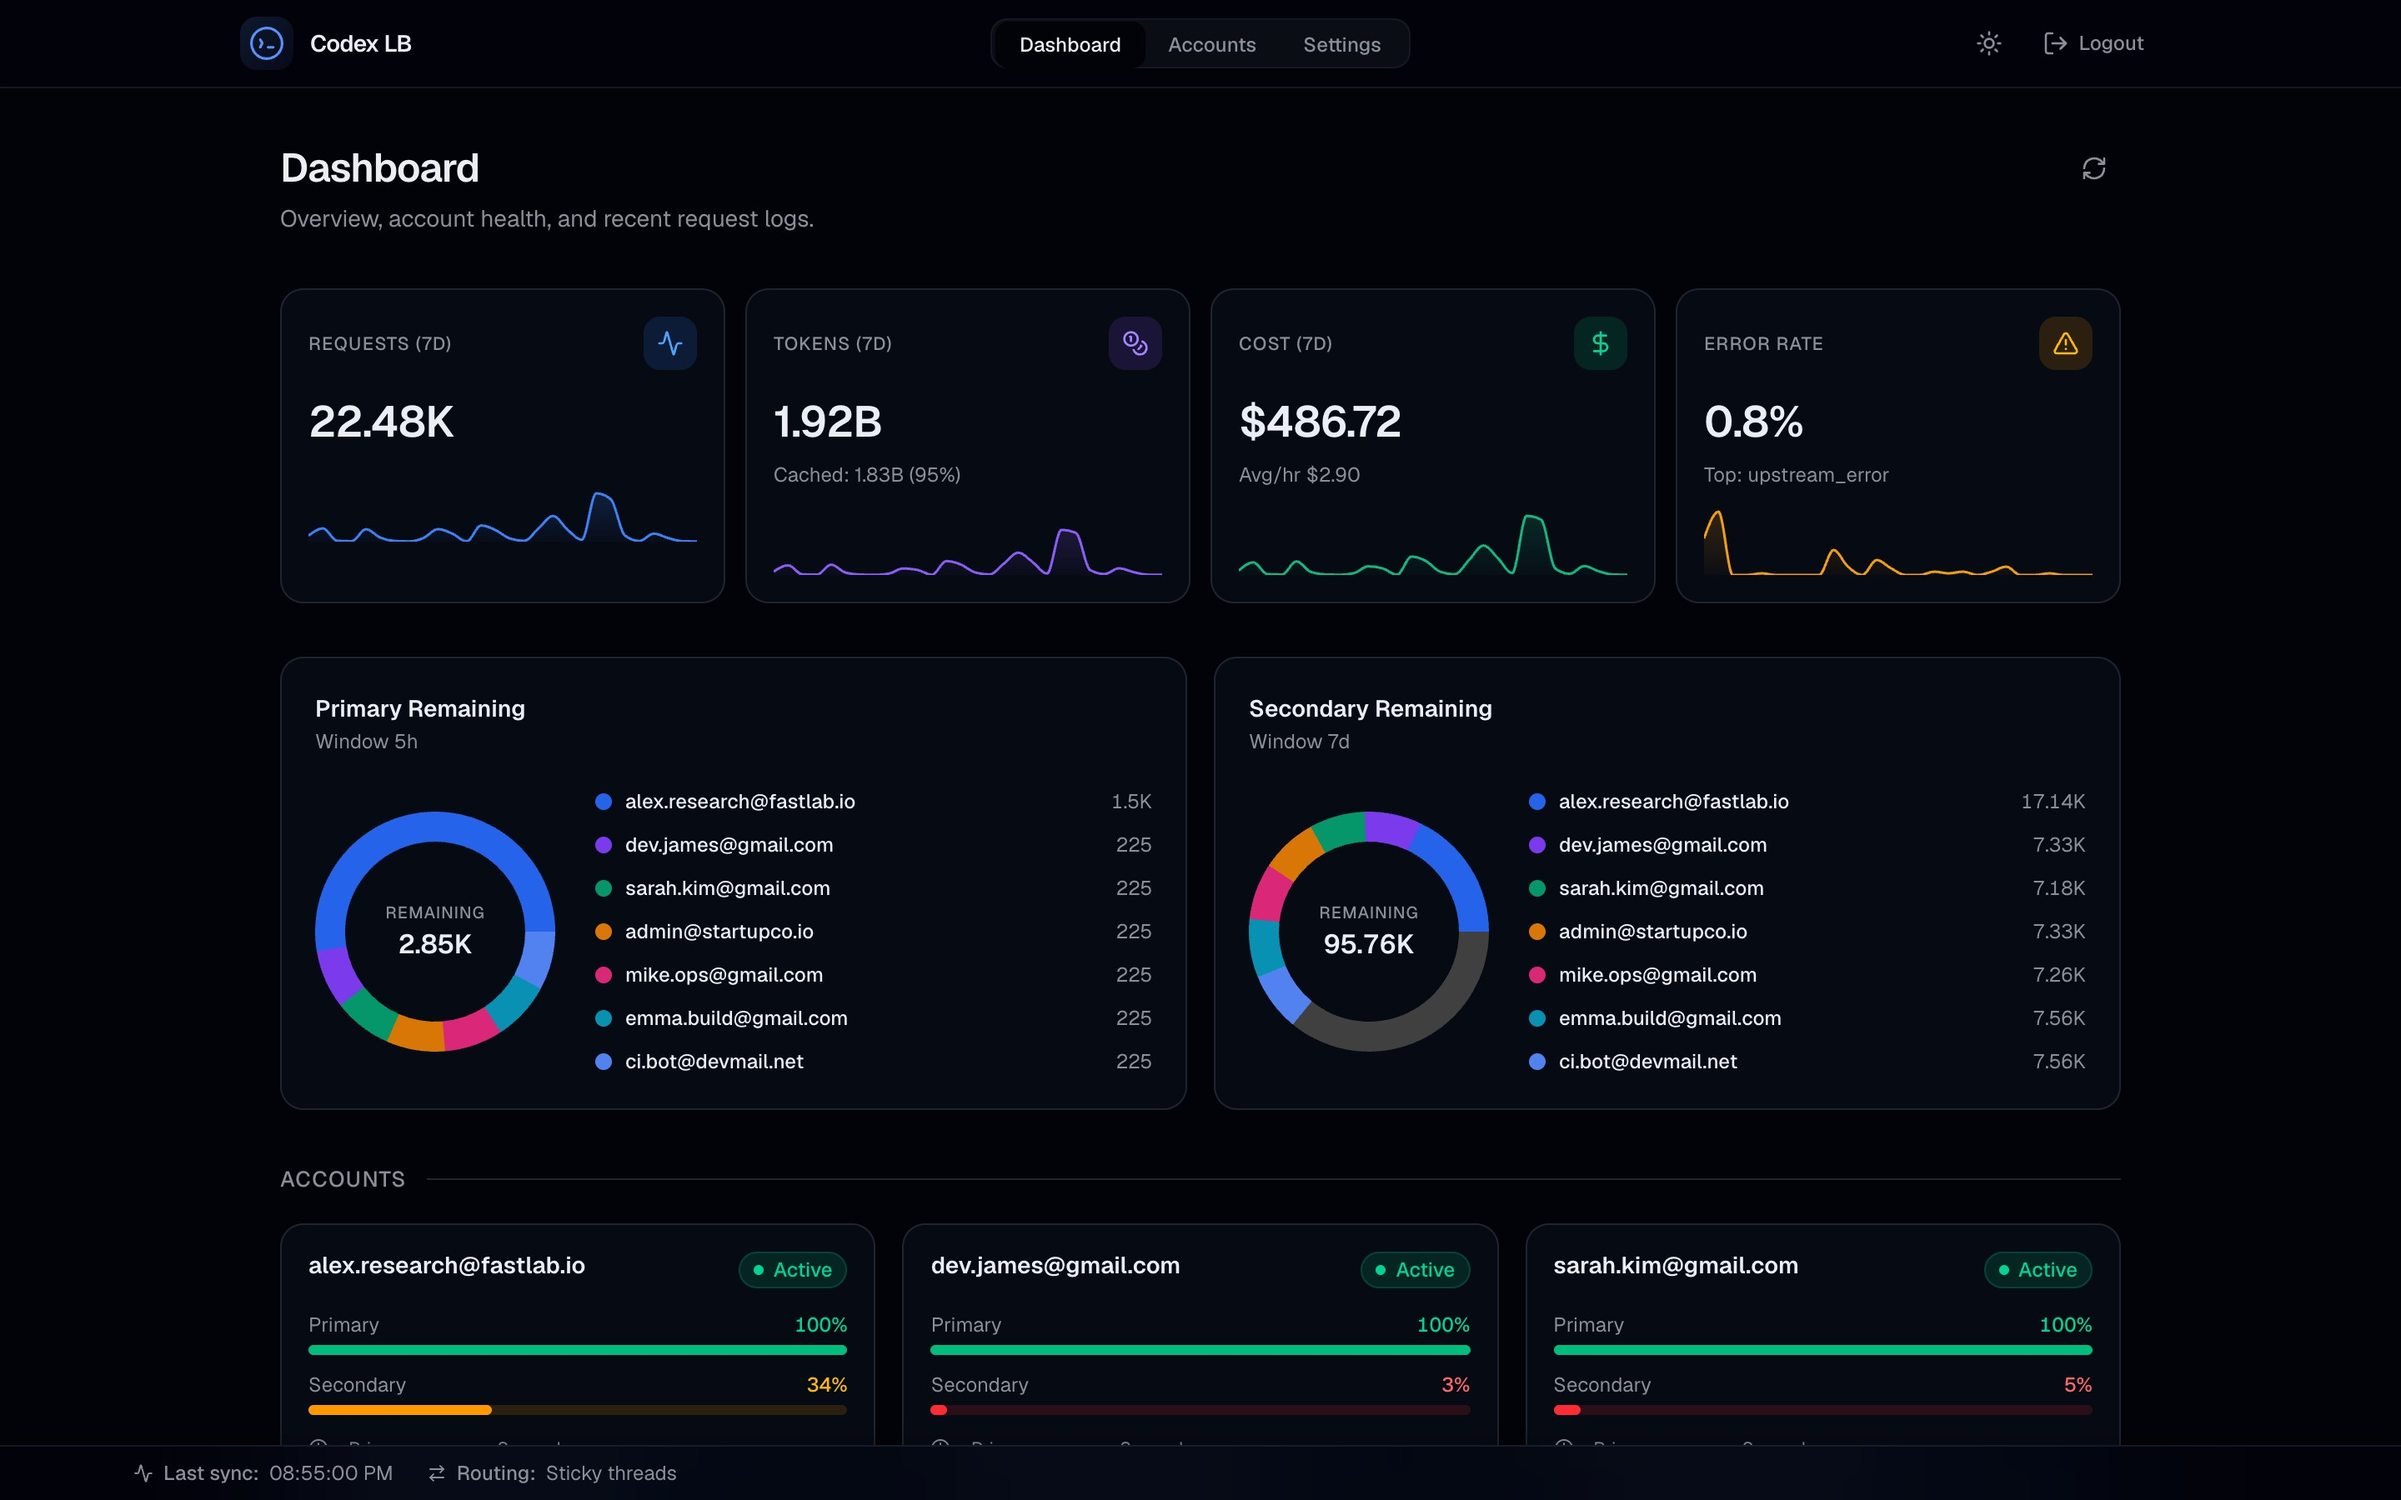
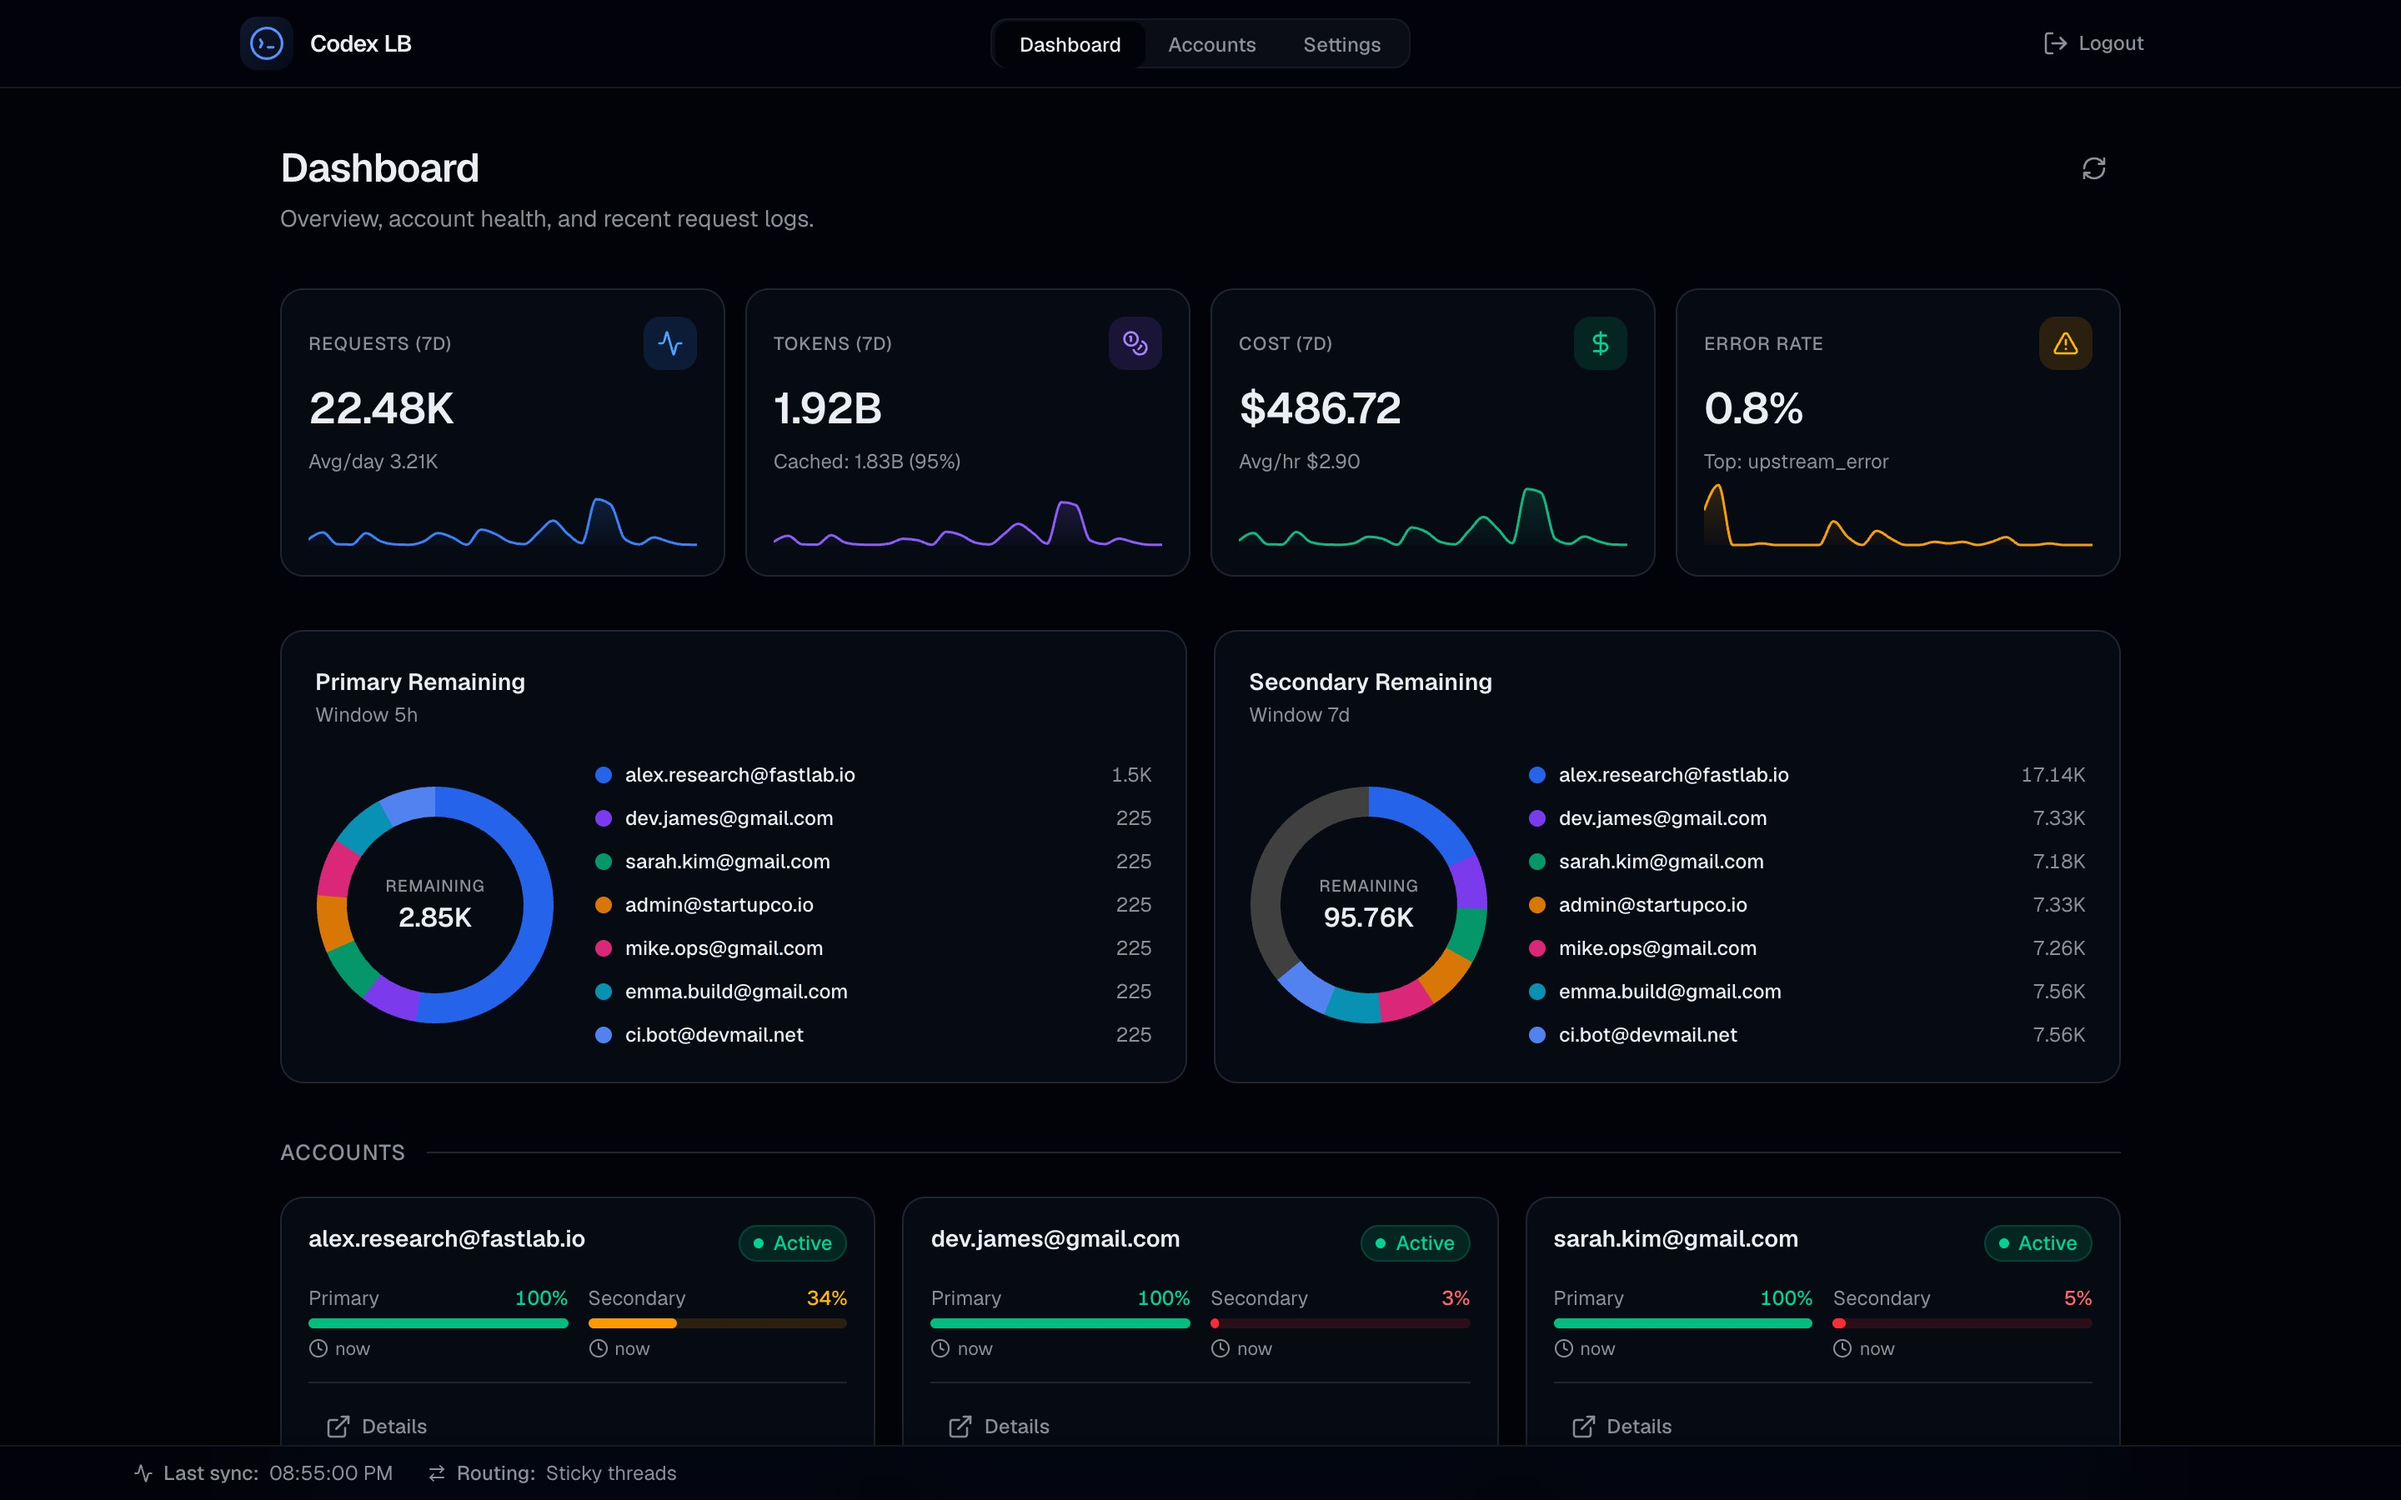
chore(screenshots): update screenshots and add account trends fixtures
Refresh dashboard, accounts, and settings screenshots. Add account trends
mock data to screenshot capture fixtures for the new trend chart feature.

diff --git a/frontend/screenshots/fixtures.ts b/frontend/screenshots/fixtures.ts
@@ -1,5 +1,6 @@
 import {
   createAccountSummary,
+  createAccountTrends,
   createApiKey,
   createDashboardAuthSession,
   createDashboardOverview,
@@ -8,6 +9,7 @@ import {
   createRequestLogFilterOptions,
   createRequestLogsResponse,
   type AccountSummary,
+  type AccountTrendsResponse,
   type RequestLogEntry,
 } from "../src/test/mocks/factories";
 
@@ -484,5 +486,36 @@ export const models = [
   { id: "gpt-5.2", name: "GPT 5.2" },
   { id: "gpt-5.1-codex-mini", name: "GPT 5.1 Codex Mini" },
 ];
+
+// ── Per-account usage trends ──
+
+function makeTrendPoints(percentages: number[]) {
+  return percentages.map((v, i) => ({
+    t: trendIso((percentages.length - i) * 6),
+    v,
+  }));
+}
+
+export const accountTrends: Record<string, AccountTrendsResponse> = Object.fromEntries(
+  accounts.map((a) => {
+    const prim = a.usage?.primaryRemainingPercent ?? 100;
+    const sec = a.usage?.secondaryRemainingPercent ?? 100;
+    return [
+      a.accountId,
+      createAccountTrends(a.accountId, {
+        primary: makeTrendPoints(
+          Array.from({ length: 28 }, (_, i) =>
+            Math.max(0, Math.min(100, prim + Math.sin(i * 0.5) * 15)),
+          ),
+        ),
+        secondary: makeTrendPoints(
+          Array.from({ length: 28 }, (_, i) =>
+            Math.max(0, Math.min(100, sec + Math.sin(i * 0.4) * 12)),
+          ),
+        ),
+      }),
+    ];
+  }),
+);
 
 export { createRequestLogsResponse };

diff --git a/frontend/screenshots/capture.spec.ts b/frontend/screenshots/capture.spec.ts
@@ -4,6 +4,7 @@ import { test, type Page, type Route } from "@playwright/test";
 
 import {
   accounts,
+  accountTrends,
   apiKeys,
   authSession,
   createRequestLogsResponse,
@@ -57,6 +58,12 @@ async function interceptApi(page: Page, session: SessionOverride = authSession) 
       return fulfill(route, createRequestLogsResponse(slice, requestLogs.length, offset + limit < requestLogs.length));
     }
     if (p === "/api/accounts") return fulfill(route, { accounts });
+    const trendsMatch = p.match(/^\/api\/accounts\/([^/]+)\/trends$/);
+    if (trendsMatch) {
+      const trends = accountTrends[trendsMatch[1]];
+      if (trends) return fulfill(route, trends);
+      return route.fulfill({ status: 404, contentType: "application/json", body: JSON.stringify({ error: { code: "account_not_found", message: "Account not found" } }) });
+    }
     if (p === "/api/settings") return fulfill(route, settings);
     if (p === "/api/models") return fulfill(route, { models });
     if (p === "/api/api-keys" || p === "/api/api-keys/") return fulfill(route, apiKeys);
